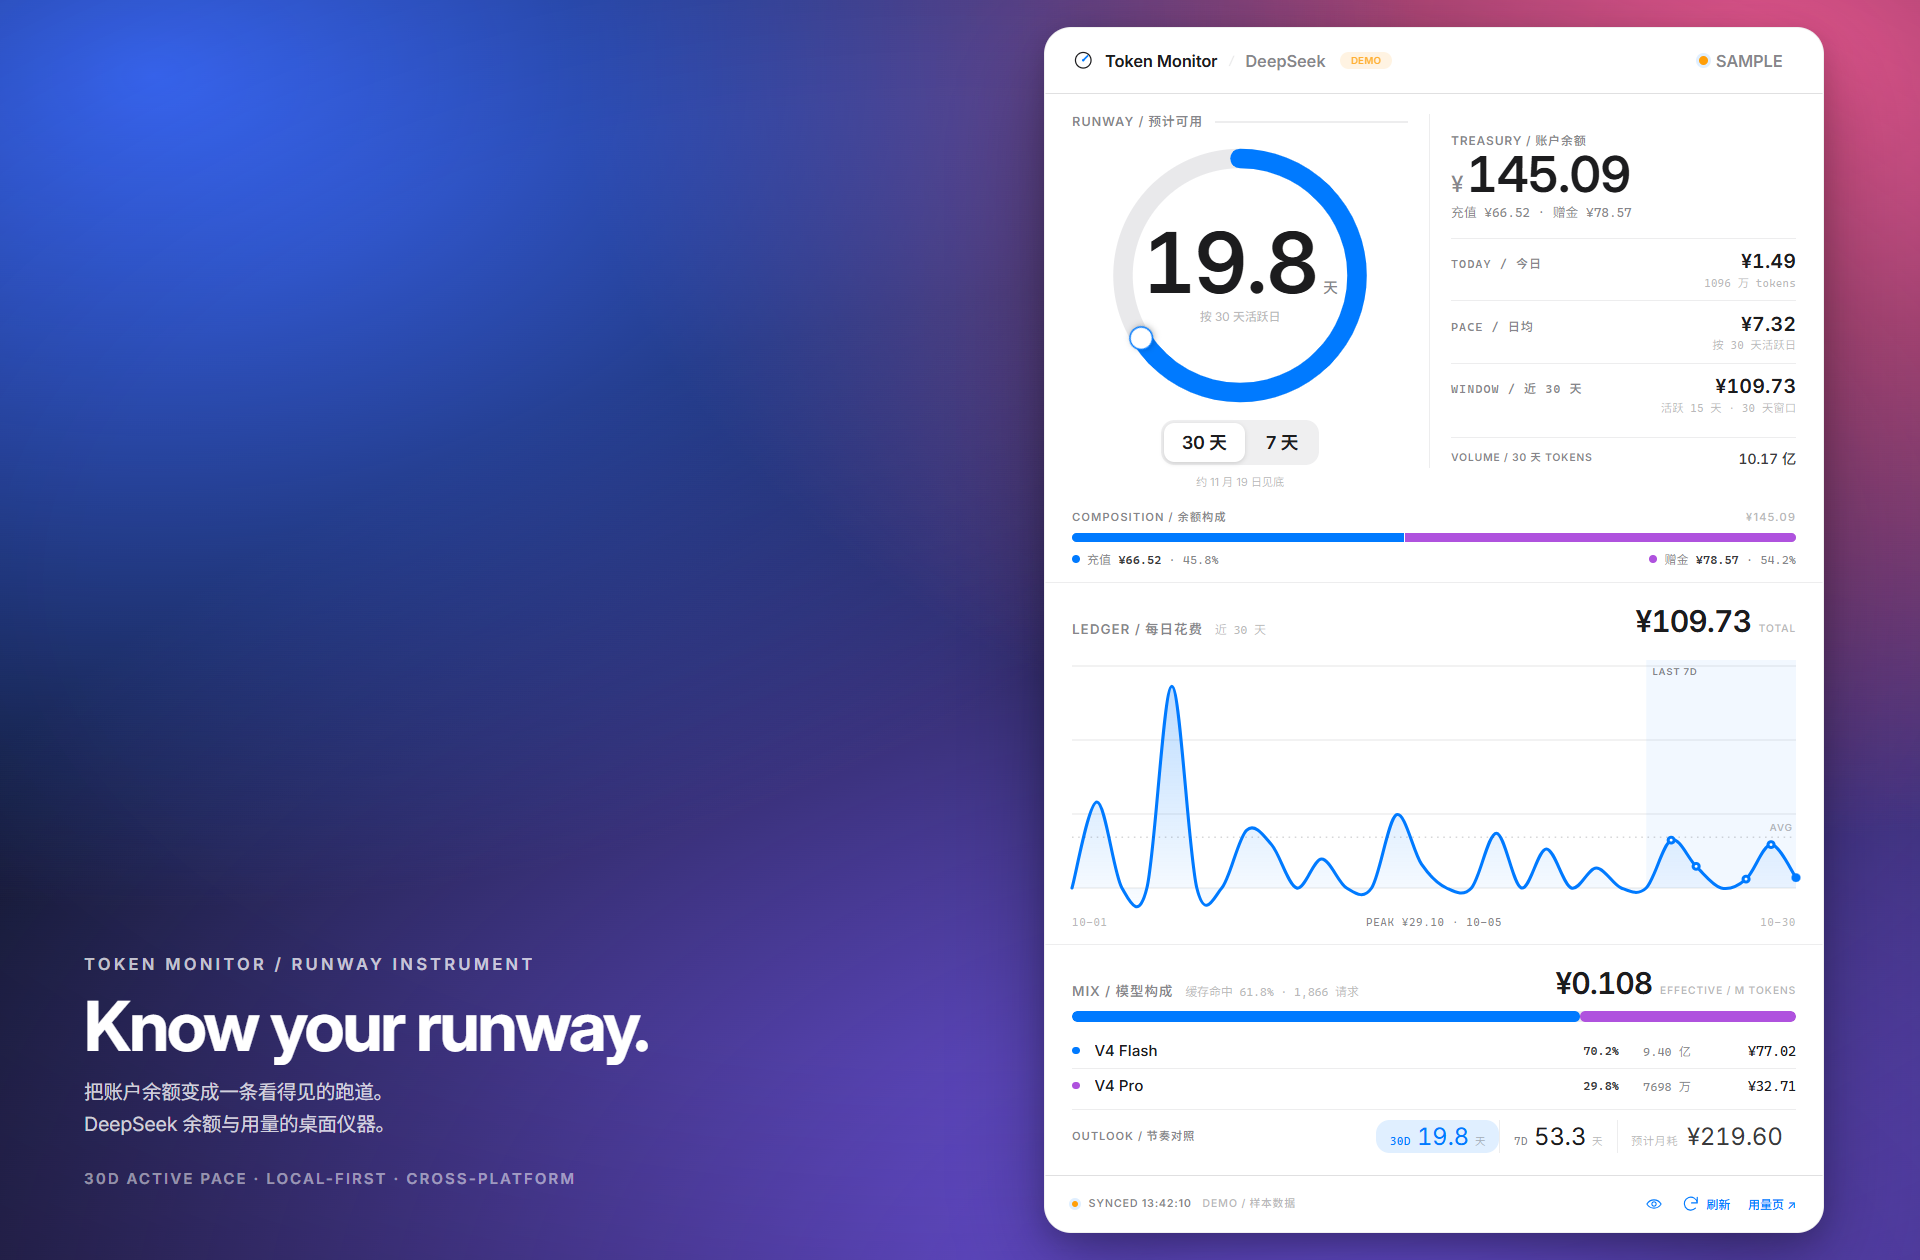
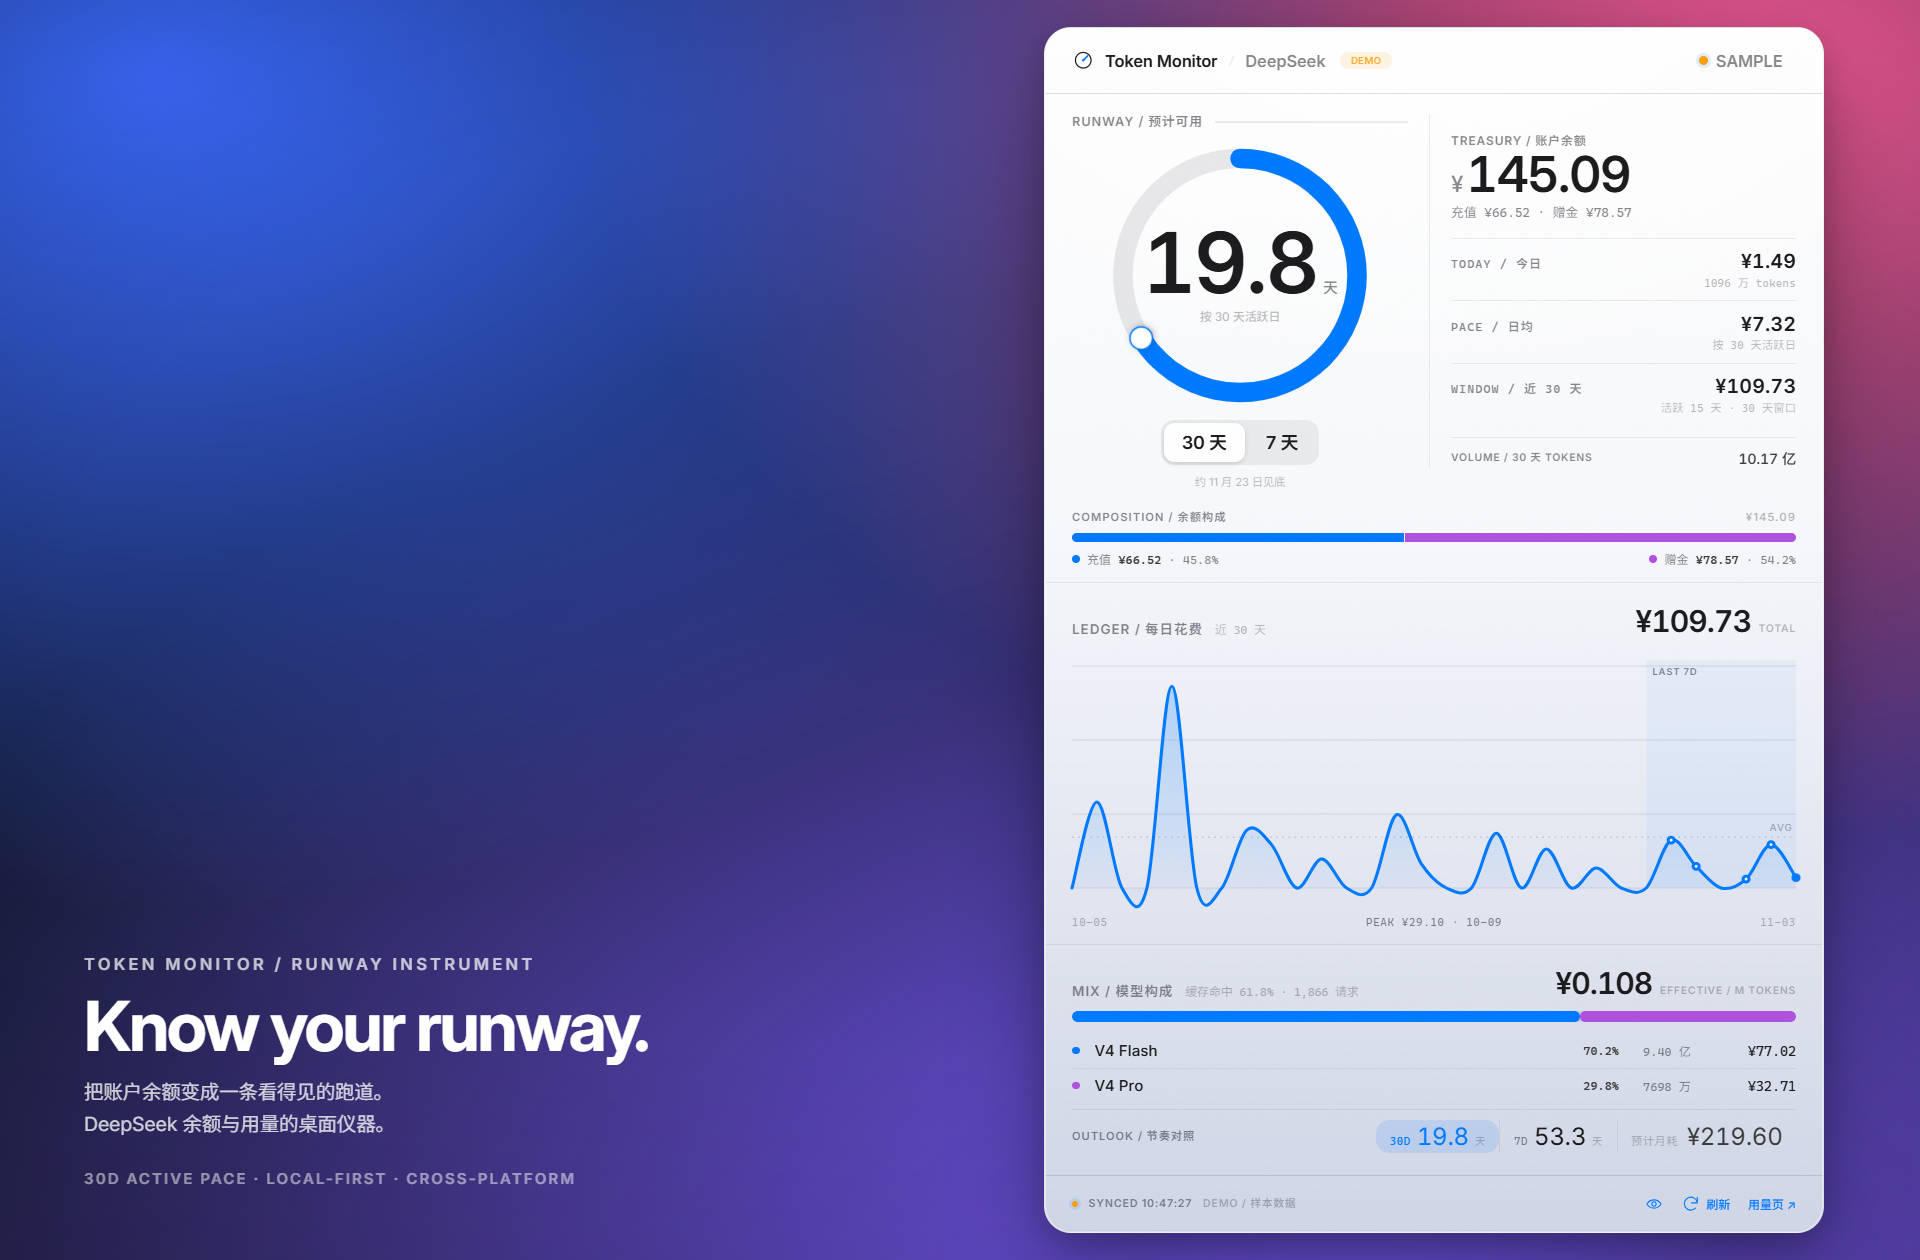
Give the card a frosted surface, painted rather than borrowed
The window is transparent and the card is the page's top surface, so there is
nothing behind it to blur: backdrop-filter would blur nothing, and letting the
desktop through would make the interface read as whatever wallpaper happens to
be behind it. The frost is therefore drawn from what a thick pane does to
light — a milky body that is not paper white (a bloom over pure white is
invisible, which is why this surface used to read as a flat sheet), a bright
top edge, depth gathering at the bottom, a hairline rim, and a fine grain.

The grain layer was switched off entirely; that is the honest reason the card
had no texture. It is back at 0.07/0.09 with the blending each theme already
declared. Same picture on every platform, no OS material and no screen capture.

Screenshots regenerated (Chinese locale, as the committed ones were). They are
noticeably larger: visible noise does not compress.

Changed region(s): [[0.5312, 0.619, 0.9688, 0.9905], [0.0625, 0.8667, 0.1875, 0.8976], [0.5938, 0.031, 0.625, 0.0619]]

diff --git a/renderer/styles.css b/renderer/styles.css
@@ -49,7 +49,16 @@
   --panel-edge: rgba(0, 0, 0, 0.06);
   --panel-highlight: rgba(255, 255, 255, 0.9);
   --shadow: 0 0 0 0.5px rgba(0, 0, 0, 0.05), 0 2px 4px rgba(0, 0, 0, 0.05), 0 6px 14px rgba(0, 0, 0, 0.09);
-  --grain-opacity: 0;
+  /* The frost: a pane is not one colour. Light enters along the top edge, the
+     body of the glass is a milky cool white rather than paper white, and the
+     depth gathers toward the bottom where the pane thickens over the desk. */
+  --frost-light: #ffffff;
+  --frost-body: #f4f6fa;
+  --frost-deep: #e9ecf3;
+  --frost-bloom: rgba(255, 255, 255, 0.98);
+  --frost-depth: rgba(120, 136, 184, 0.22);
+  --frost-rim: rgba(60, 60, 67, 0.08);
+  --grain-opacity: 0.07;
   --stage-caption: #ffffff;
   --stage-muted: rgba(255, 255, 255, 0.72);
   --serif: var(--sans);
@@ -81,6 +90,16 @@ body.theme-dark {
   --panel-edge: rgba(255, 255, 255, 0.08);
   --panel-highlight: rgba(255, 255, 255, 0.08);
   --shadow: 0 0 0 0.5px rgba(255, 255, 255, 0.06), 0 2px 6px rgba(0, 0, 0, 0.35), 0 8px 16px rgba(0, 0, 0, 0.3);
+  /* The same pane smoked: the top catches a reflection of the room rather than
+     light through it, the body is charcoal with a blue cast, and the grain reads
+     brighter because screen blending scatters less per pixel over a dark field. */
+  --frost-light: #26262a;
+  --frost-body: #1f1f22;
+  --frost-deep: #141416;
+  --frost-bloom: rgba(255, 255, 255, 0.12);
+  --frost-depth: rgba(0, 0, 0, 0.45);
+  --frost-rim: rgba(255, 255, 255, 0.06);
+  --grain-opacity: 0.09;
 }
 
 * {
@@ -198,11 +217,26 @@ select,
   height: 100%;
   border-radius: 16px;
   border: 1px solid var(--panel-edge);
-  background:
-    radial-gradient(120% 90% at 18% 0%, var(--paper-2) 0%, var(--paper) 56%, var(--paper) 100%);
   box-shadow: var(--shadow);
   overflow: hidden;
   isolation: isolate;
+}
+
+/* The two light layers of the frost (the tokens are explained in the material
+   section below): the bloom where light enters along the top edge, and the cool
+   depth that gathers at the bottom of a thick pane.
+   z-index: -1 keeps the wash under the content and above the panel's own
+   background, inside the panel's stacking context (isolation: isolate). */
+.panel::after {
+  content: "";
+  position: absolute;
+  inset: 0;
+  z-index: -1;
+  border-radius: inherit;
+  pointer-events: none;
+  background:
+    radial-gradient(140% 70% at 50% -12%, var(--frost-bloom) 0%, rgba(255, 255, 255, 0) 62%),
+    linear-gradient(180deg, rgba(255, 255, 255, 0) 42%, var(--frost-depth) 100%);
 }
 
 .panel::before {
@@ -2349,28 +2383,46 @@ body {
 
 /* ── material ─────────────────────────────────────────────── */
 
+/* Frosted glass, drawn rather than borrowed.
+   The window is transparent and the card is the page's top surface: there is
+   nothing behind it to blur, so backdrop-filter would blur nothing, and letting
+   the desktop through would make the interface read as whatever wallpaper happens
+   to be behind it — per platform, per moment, per user. So the frost is built
+   from what a thick pane does to light instead: a bright band where light enters
+   along the top edge, a milky cool body that is not paper white (a bloom over
+   pure white is invisible, which is why this whole surface used to look flat),
+   depth that gathers toward the bottom, a hairline rim all round, and a grain
+   fine enough to scatter the flat fields without dirtying the text.
+   All of it is paint, so it is the same picture on Windows, macOS and Linux. */
 .panel {
   border-radius: 18px;
   border: 1px solid var(--panel-edge);
-  background: var(--paper);
+  background: linear-gradient(180deg, var(--frost-light) 0%, var(--frost-body) 55%, var(--frost-deep) 100%);
   box-shadow: 0 1px 2px rgba(0, 0, 0, 0.05), 0 8px 28px rgba(0, 0, 0, 0.11);
 }
 
 body.theme-dark .panel {
-  background: var(--paper);
   box-shadow: 0 1px 2px rgba(0, 0, 0, 0.35), 0 8px 28px rgba(0, 0, 0, 0.32);
 }
 
 .panel::before {
-  box-shadow: inset 0 0 0 0.5px rgba(255, 255, 255, 0.6);
+  box-shadow:
+    inset 0 0 0 0.5px rgba(255, 255, 255, 0.6),
+    inset 0 -1px 0 var(--frost-rim);
 }
 
 body.theme-dark .panel::before {
-  box-shadow: inset 0 0 0 0.5px rgba(255, 255, 255, 0.09);
+  box-shadow:
+    inset 0 0 0 0.5px rgba(255, 255, 255, 0.09),
+    inset 0 -1px 0 var(--frost-rim);
 }
 
+/* The pane's scatter. This layer used to be switched off, which is the honest
+   reason the card read as a flat sheet: without it the surface has no texture at
+   all. It is back at a low opacity and blended the way glass scatters — multiply
+   in the light theme, screen in the dark one (see .grain above). */
 .grain {
-  display: none;
+  display: block;
 }
 
 /* ── shared controls ──────────────────────────────────────── */
